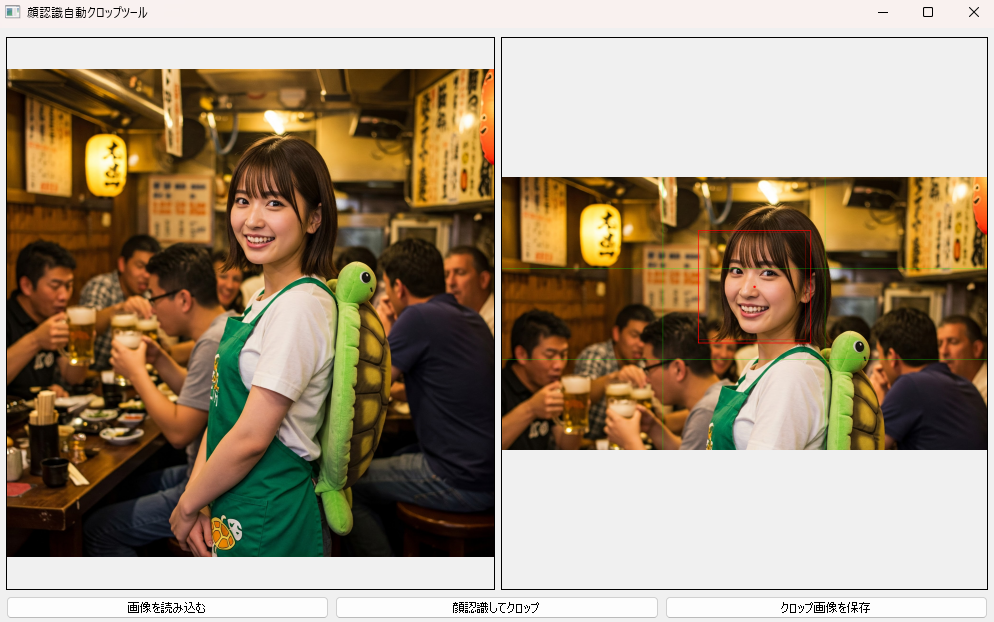
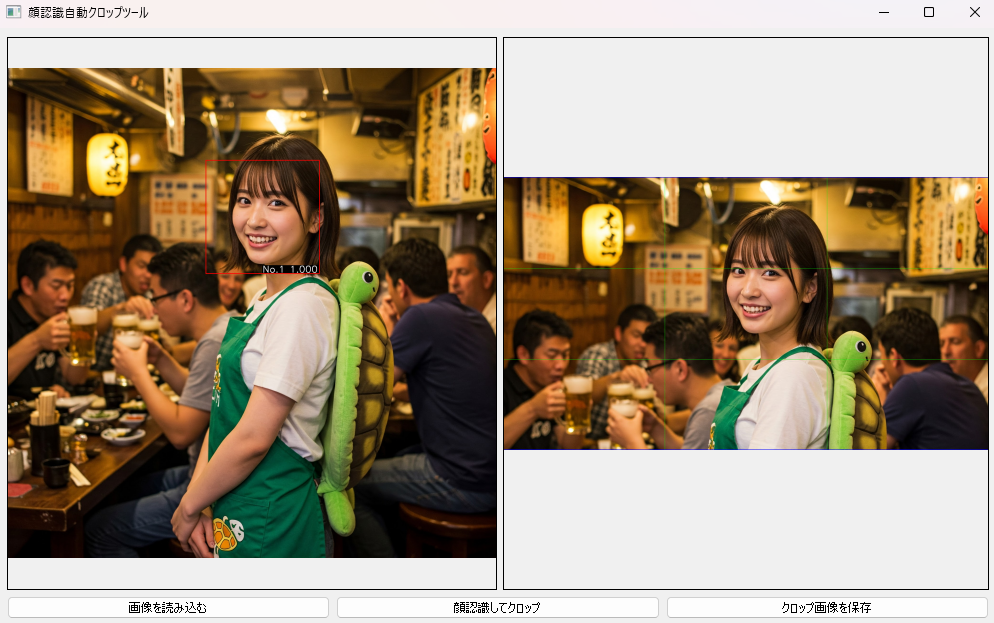
README 画像更新

diff --git a/README.md b/README.md
@@ -130,6 +130,11 @@ total_score = (0.4 × size_score) + (0.4 × center_score) + (0.2 × sharpness_sc
 
 ### 視覚的フィードバック機能
 
+<div align="center">
+  <img src="doc_images/app_img2.png" alt="視覚的フィードバック例" width="600"/><br>
+  <em>視覚的フィードバック表示の例</em>
+</div>
+
 - **顔の矩形表示**：
   - クロップの基準となった主要な顔：太い赤色の矩形（線幅2）で表示
   - その他の検出された顔：灰色の矩形（線幅2）で表示
